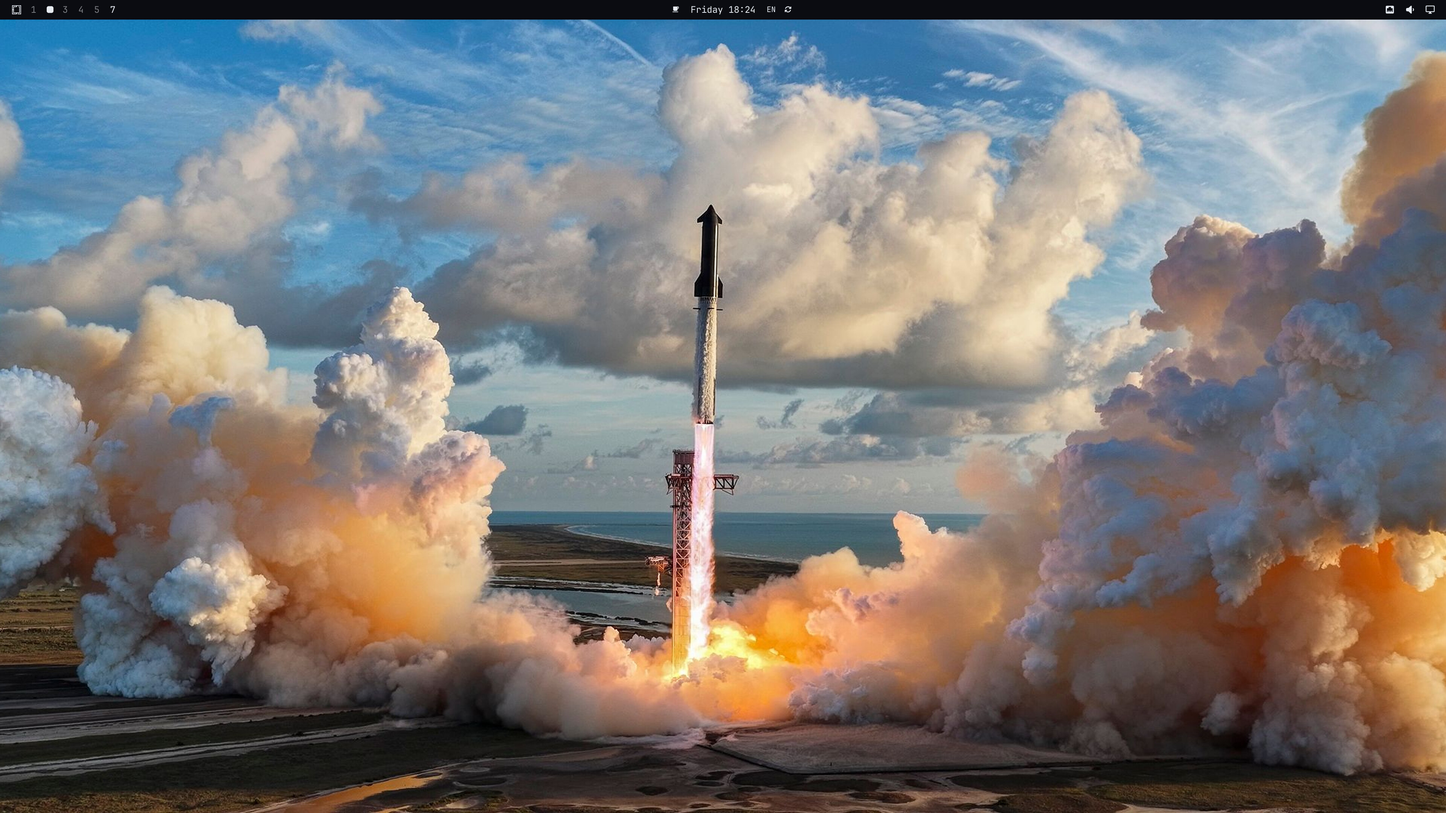
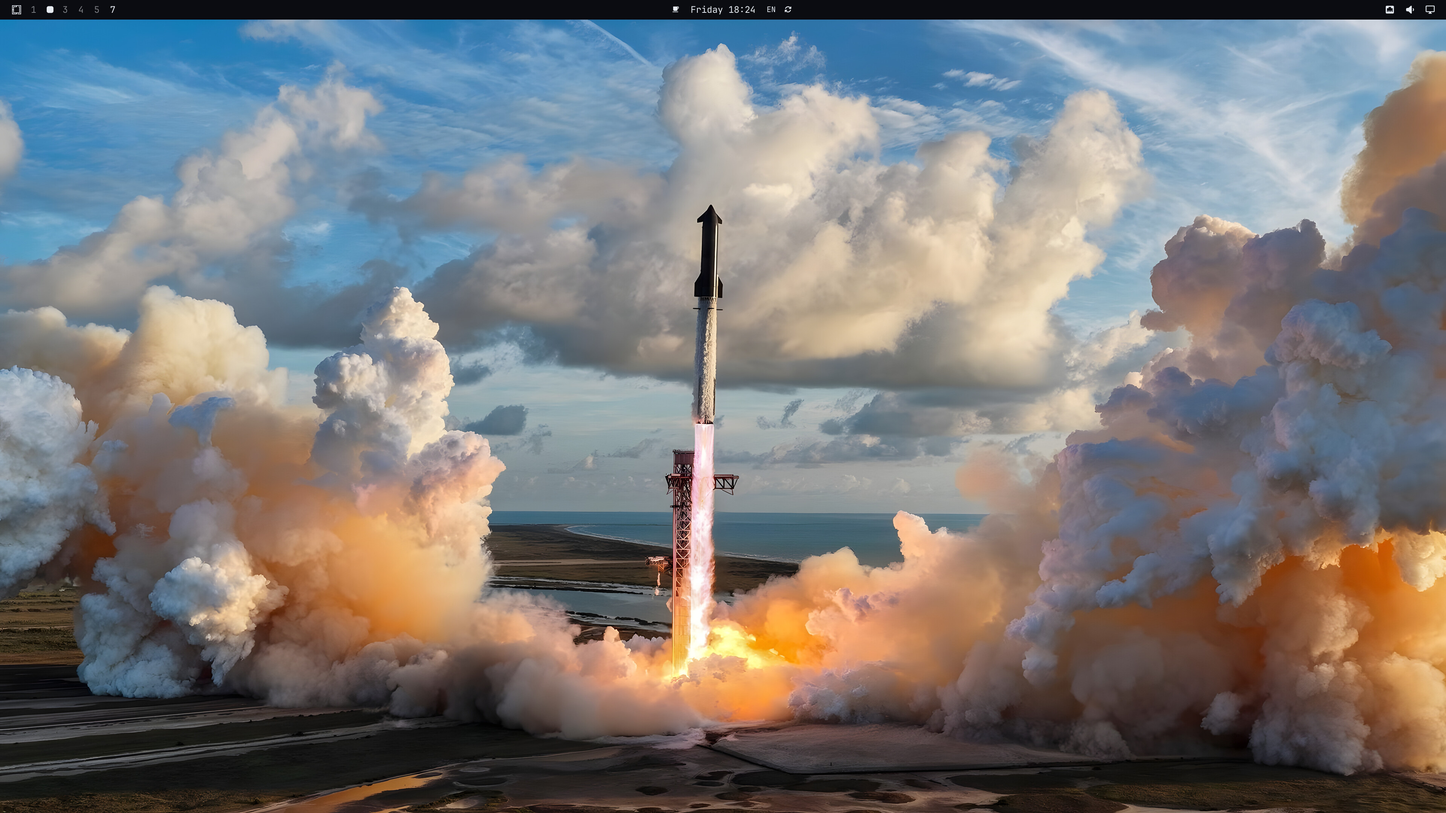
Upscale the backgrounds with Real-ESRGAN

diff --git a/CREDITS.md b/CREDITS.md
@@ -10,7 +10,7 @@ The photos in `backgrounds/` are not mine. They were taken by **SpaceX** and com
 | `2-starship-flight-13-on-the-pad.jpg` | Starship Flight 13 on the pad at Starbase | [spacex.com/launches/starship-flight-13](https://www.spacex.com/launches/starship-flight-13) |
 | `3-starship-flight-12-liftoff.jpg` | Starship Flight 12, 22 May 2026, flying Starship V3 | [spacex.com/launches/starship-flight-12](https://www.spacex.com/launches/starship-flight-12) |
 
-SpaceX publishes these at 2600x1200. For this theme they are cropped to 16:9 around the rocket and upscaled to 6144x3456.
+SpaceX publishes these at 2600x1200. For this theme they are cropped to 16:9 around the rocket, upscaled 4x with [Real-ESRGAN](https://github.com/xinntao/Real-ESRGAN) (`realesrgan-x4plus`) and scaled to 6144x3456.
 
 If you are from SpaceX and want a photo changed or removed, open an issue and it will be done right away.
 

diff --git a/README.md b/README.md
@@ -22,7 +22,7 @@ Cycle the backgrounds with `omarchy theme bg next`.
 - `2-starship-flight-13-on-the-pad.jpg`: Flight 13 stacked on the pad under a pink sky
 - `3-starship-flight-12-liftoff.jpg`: Flight 12, a Starship V3, climbing out over the Texas coast
 
-All three are 6144x3456, cropped to 16:9 around the rocket. On a wider or taller screen Omarchy crops the sides, and the rocket stays in the middle.
+All three are 6144x3456, cropped to 16:9 around the rocket and upscaled with Real-ESRGAN. On a wider or taller screen Omarchy crops the sides, and the rocket stays in the middle.
 
 **These photos are not mine.** They were taken by SpaceX and come from the mission pages on [spacex.com](https://www.spacex.com). All rights stay with SpaceX. See [CREDITS.md](CREDITS.md) for the source of each one.
 
